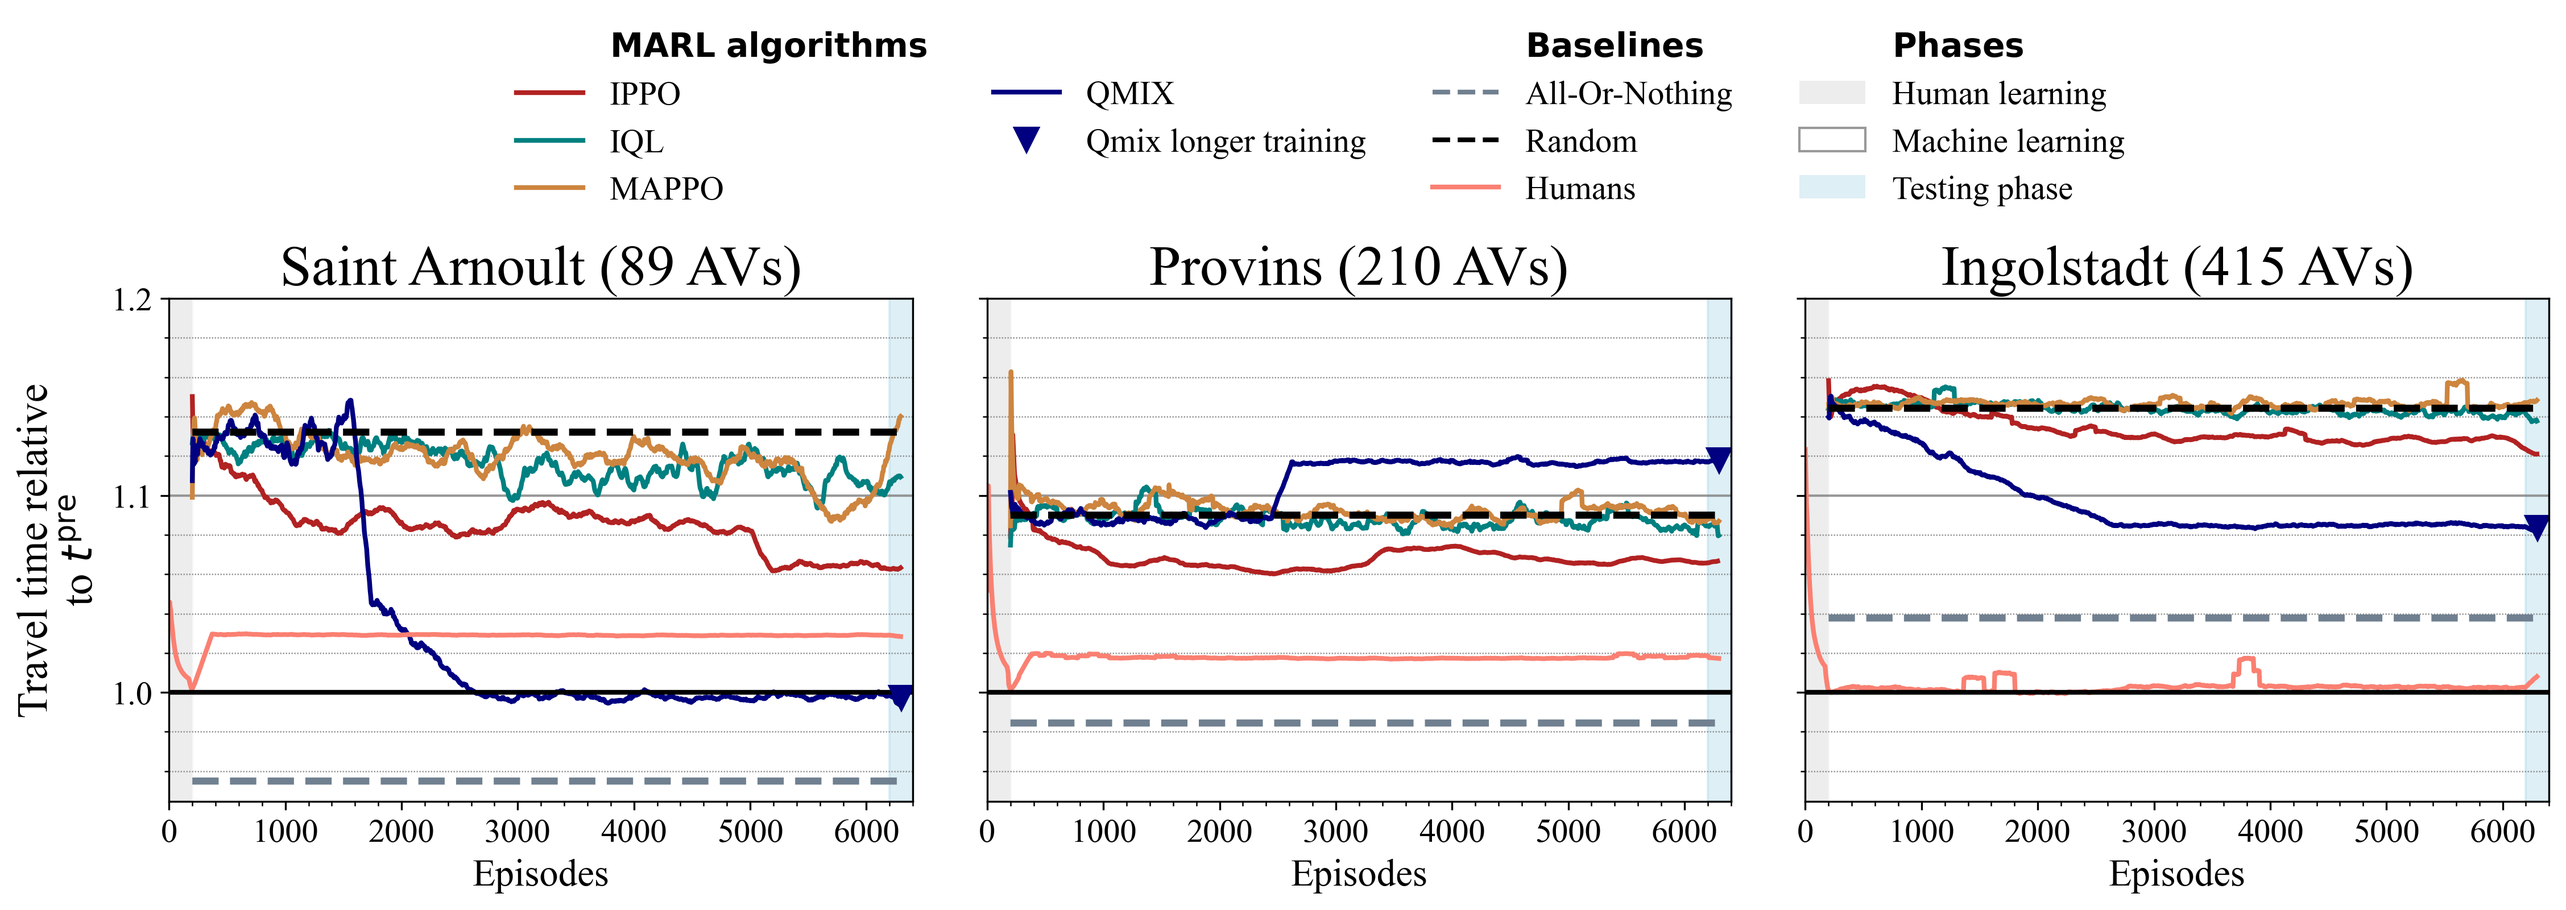
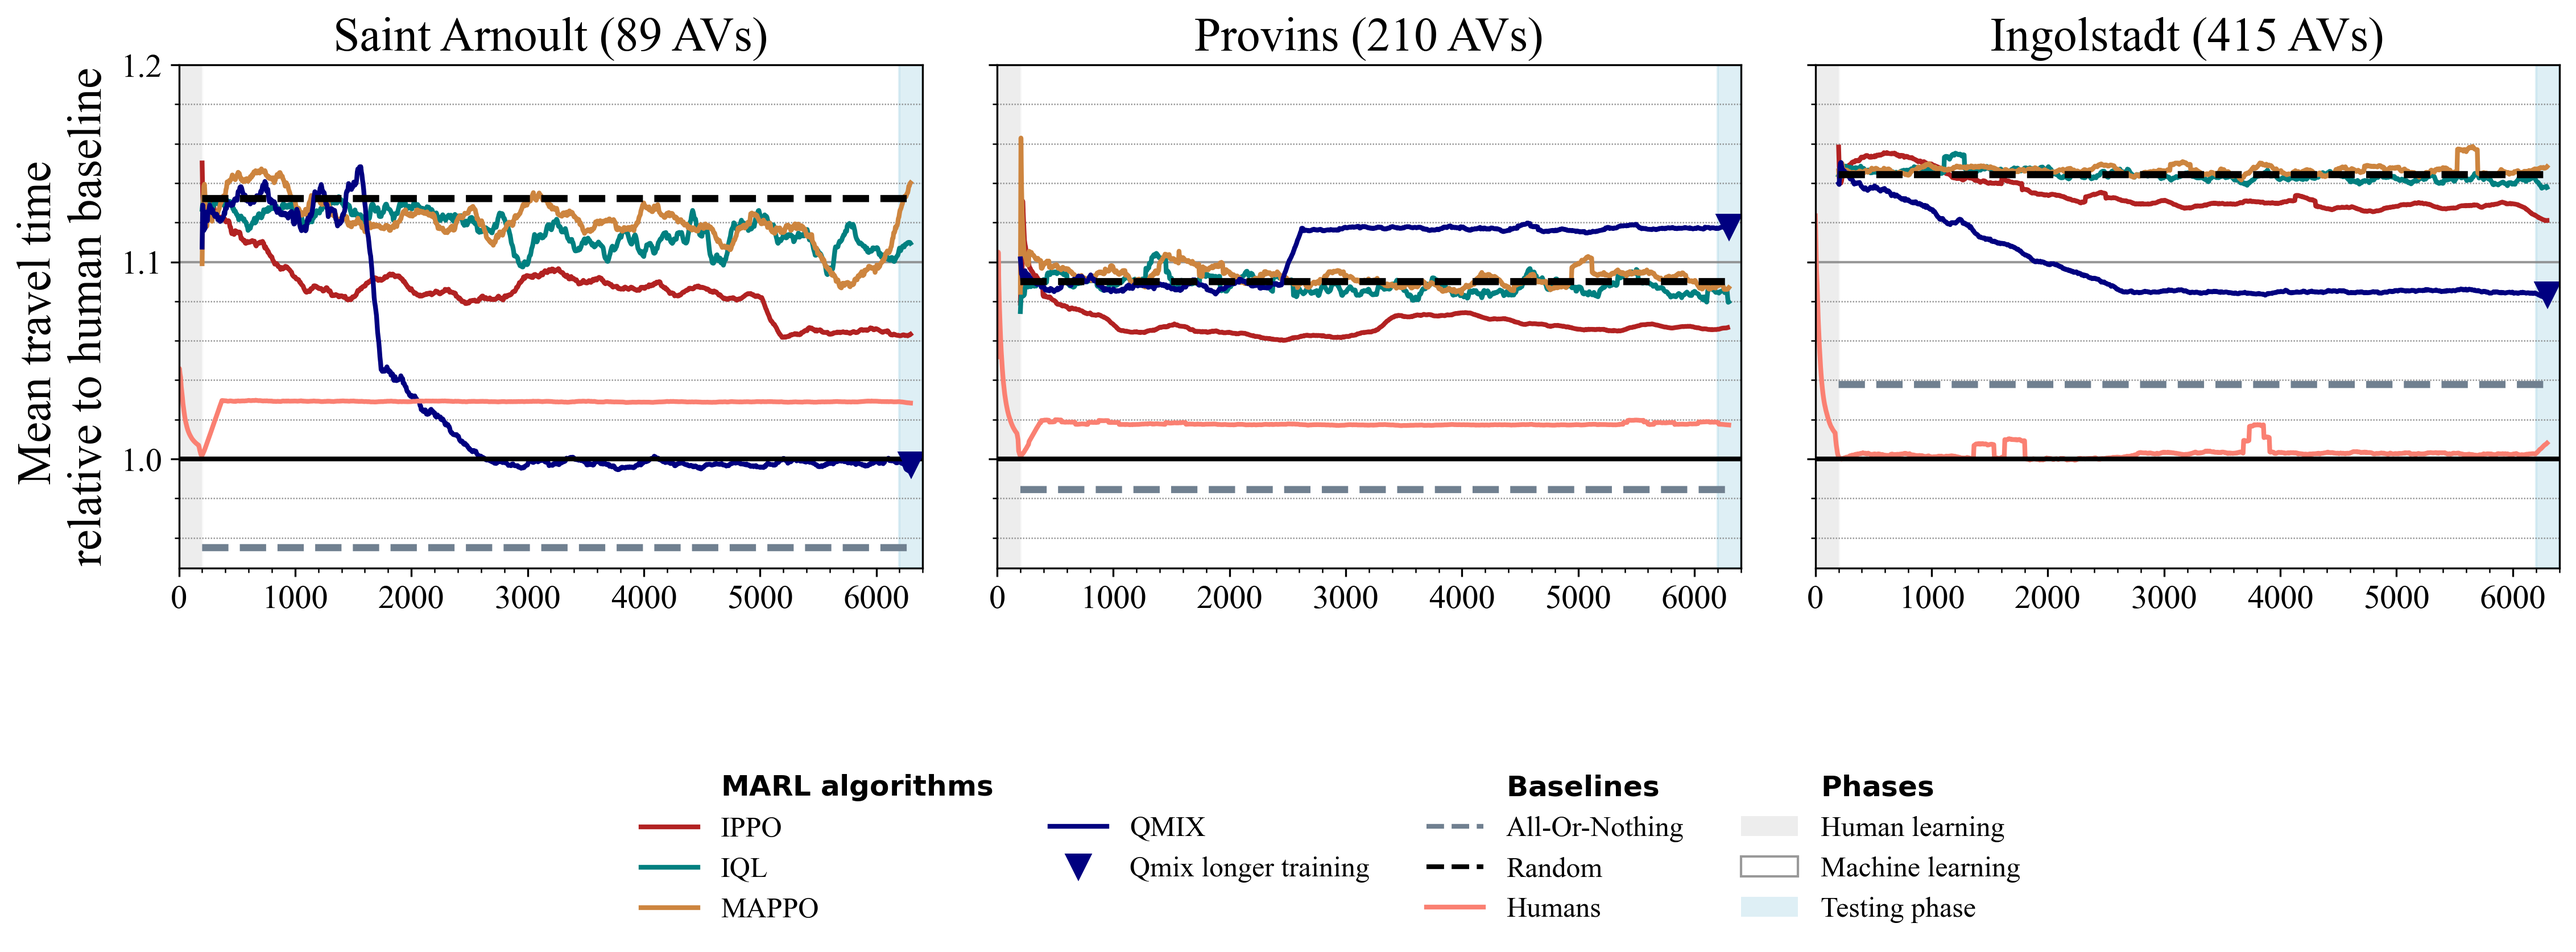
100-per-avs

Changed region(s): [[0.0, 0.0, 1.0, 0.9681], [0.7812, 0.5309, 0.8125, 0.5621]]

diff --git a/plotting_saint_arnold_100avs.py b/plotting_saint_arnold_100avs.py
@@ -113,8 +113,6 @@ suffix_labels = {
 # Define city prefixes and their readable names
 city_prefixes = OrderedDict([
     ('sai', 'Saint Arnoult (89 AVs)'),
-    ('pro', 'Provins (210 AVs)'),
-    ('ing', 'Ingolstadt (415 AVs)')
 ])
 
 
@@ -159,11 +157,10 @@ for folder in os.listdir(parent_dir):
                     baseline_groups[city_prefix][baseline_suffix] = folder_path
 
 # Create subplots (3 cities)
-fig, axes = plt.subplots(1, 3, figsize=(18, 5), sharey=True)
+fig, ax = plt.subplots(figsize=(5, 4))
 plt.subplots_adjust(wspace=0.1)
 
 for i, (city_prefix, alg_groups) in enumerate(city_groups.items()):
-    ax = axes[i]
     city_name = city_prefixes[city_prefix]
     avg_human_tt_list = []
     print(city_prefix)
@@ -245,11 +242,11 @@ for i, (city_prefix, alg_groups) in enumerate(city_groups.items()):
     else:
         folder = "results/scenario1_long/" + city_prefix + "_qm2_xl_2/episodes"
 
-    extravaganza = calculate_extravaganza(folder)
-    normalized_extravaganze = extravaganza / avg_all_algos_humans_tt
+    #extravaganza = calculate_extravaganza(folder)
+    #normalized_extravaganze = extravaganza / avg_all_algos_humans_tt
 
     ### Add extravaganze points
-    ax.plot(6300, normalized_extravaganze, marker='v', color='navy', label='Qmix longer training', markersize=10)
+    #ax.plot(6300, normalized_extravaganze, marker='v', color='navy', label='Qmix longer training', markersize=10)
 
     ### Ticks params and titles
     ax.tick_params(axis='both', labelsize=14)
@@ -308,7 +305,7 @@ for i, (city_prefix, alg_groups) in enumerate(city_groups.items()):
 
 ### Add a central legend for the whole plot
 plt.subplots_adjust(top=0.7) 
-handles, labels = axes[1].get_legend_handles_labels()
+handles, labels = ax.get_legend_handles_labels()
 
 legend_elements = [
     # Column 1: MARL algorithms
@@ -335,7 +332,7 @@ legend_elements = [
 ]
 
 #fig.legend(handles=legend_elements, loc='lower center', bbox_to_anchor=(0.5, 1.05), ncol=4, fontsize=12, frameon=False)
-fig.legend(handles=legend_elements, loc='upper center', bbox_to_anchor=(0.5, -0.1), ncol=4, fontsize=12, frameon=False)
+#fig.legend(handles=legend_elements, loc='upper center', bbox_to_anchor=(0.5, -0.1), ncol=4, fontsize=12, frameon=False)
 
 ## Add the legend on top
 """legend_elements = [
@@ -349,4 +346,4 @@ fig.legend(handles=legend_elements, loc='upper center', bbox_to_anchor=(0.5, -0.
     Line2D([0], [0], color='navy', lw=2, label='QMIX')
 ]"""
 
-fig.savefig('my_figure.png', dpi=300, bbox_inches='tight')  # Change filename and format as needed
+fig.savefig('100_per_avs.png', dpi=300, bbox_inches='tight')  # Change filename and format as needed
